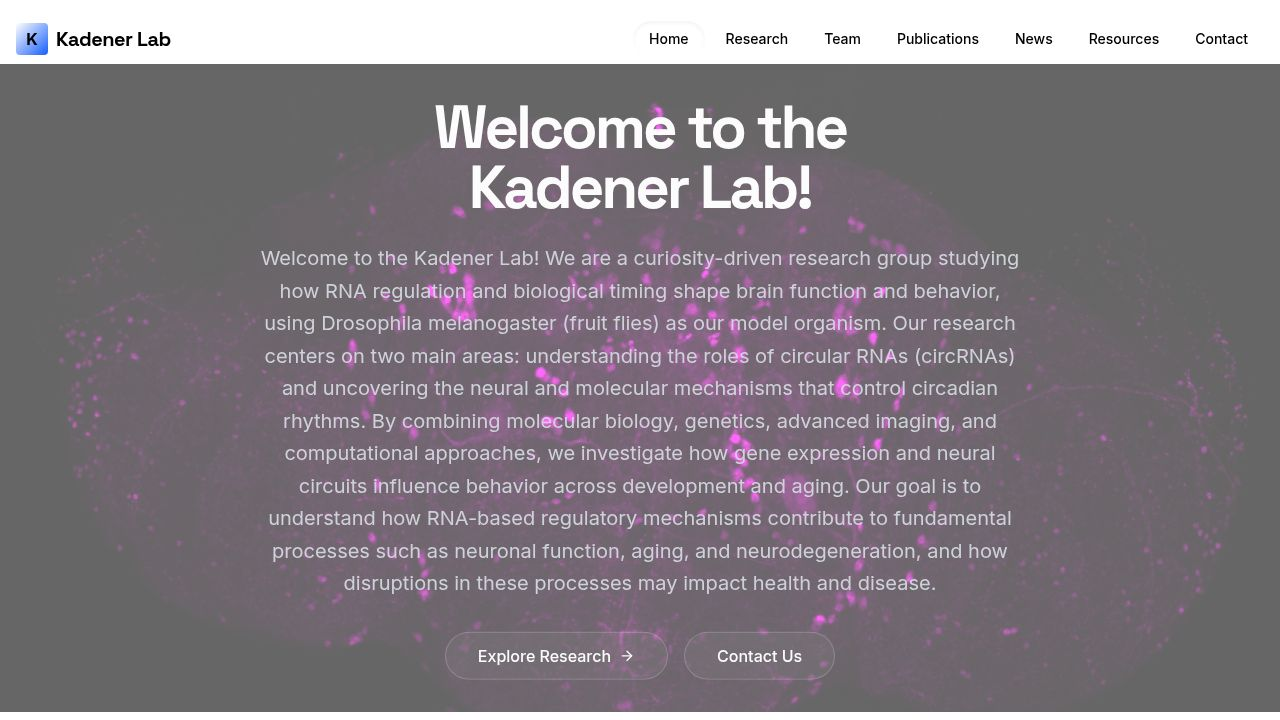
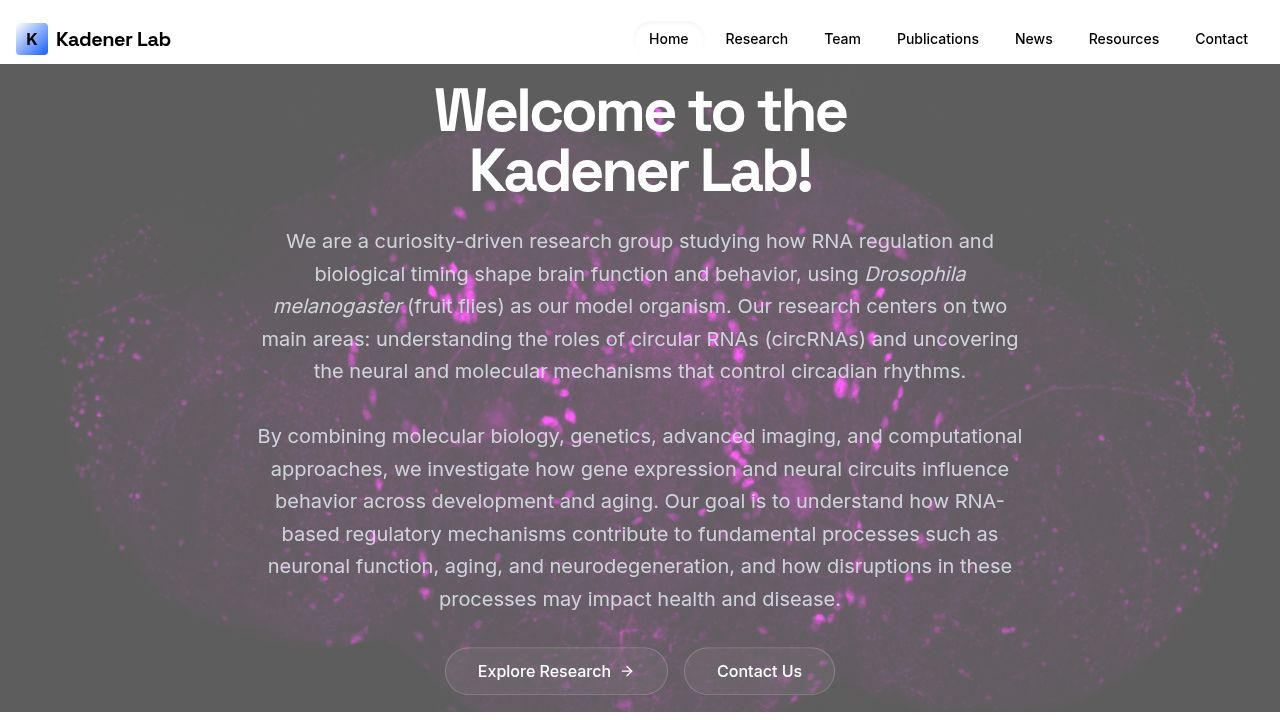
Remove welcome message from the home page introduction
Update the `content.ts` file to remove the introductory "Welcome to the Kadener Lab!" text from the `mission` field.

Replit-Commit-Author: Agent
Replit-Commit-Session-Id: 1383e98e-9b94-43f3-bb2b-04ed5b6619d4
Replit-Commit-Checkpoint-Type: full_checkpoint
Replit-Commit-Event-Id: a66e9d24-ef85-48b6-9719-aca05091510d
Replit-Commit-Screenshot-Url: https://storage.googleapis.com/screenshot-production-us-central1/0a6790c6-6e9d-4fe3-8ca5-9559bf0cc256/1383e98e-9b94-43f3-bb2b-04ed5b6619d4/ZEb6yby
Replit-Helium-Checkpoint-Created: true

diff --git a/client/src/data/content.ts b/client/src/data/content.ts
@@ -23,7 +23,7 @@ import yingshiImage from '@assets/Yingshi_1769714873900.jpg';
 export const labInfo = {
   name: "Kadener Lab",
   tagline: "Unraveling the molecular logic of time and RNA",
-  mission: "Welcome to the Kadener Lab! We are a curiosity-driven research group studying how RNA regulation and biological timing shape brain function and behavior, using Drosophila melanogaster (fruit flies) as our model organism. Our research centers on two main areas: understanding the roles of circular RNAs (circRNAs) and uncovering the neural and molecular mechanisms that control circadian rhythms.\n\nBy combining molecular biology, genetics, advanced imaging, and computational approaches, we investigate how gene expression and neural circuits influence behavior across development and aging. Our goal is to understand how RNA-based regulatory mechanisms contribute to fundamental processes such as neuronal function, aging, and neurodegeneration, and how disruptions in these processes may impact health and disease.",
+  mission: "We are a curiosity-driven research group studying how RNA regulation and biological timing shape brain function and behavior, using Drosophila melanogaster (fruit flies) as our model organism. Our research centers on two main areas: understanding the roles of circular RNAs (circRNAs) and uncovering the neural and molecular mechanisms that control circadian rhythms.\n\nBy combining molecular biology, genetics, advanced imaging, and computational approaches, we investigate how gene expression and neural circuits influence behavior across development and aging. Our goal is to understand how RNA-based regulatory mechanisms contribute to fundamental processes such as neuronal function, aging, and neurodegeneration, and how disruptions in these processes may impact health and disease.",
   contact: {
     address: `Brandeis University
 Rosenstiel Basic Medical Sciences Research Center
